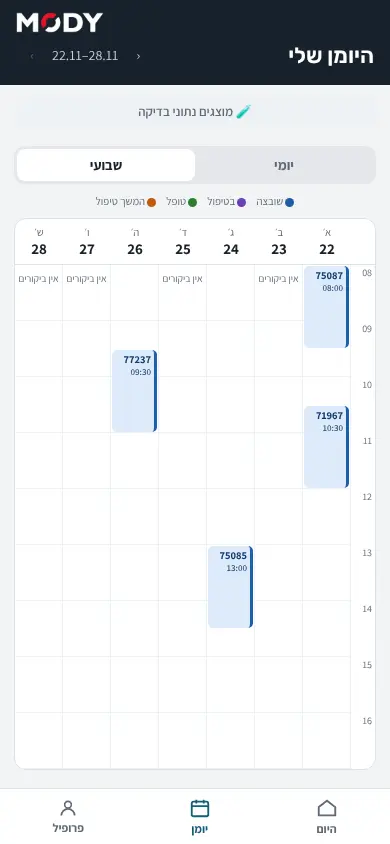
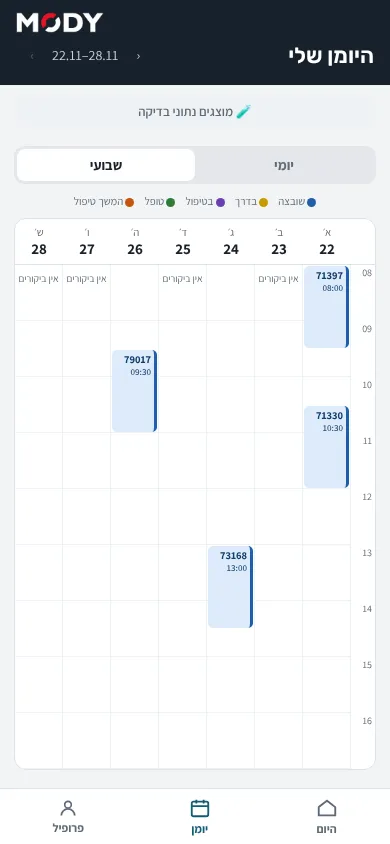
Technician calendar: "בדרך" in the legend (#54)
Owner approval "מאשר #54 2579455" (2026-11-19), advisor-checked.

diff --git a/components/tech/calendar/TechCalLegend.tsx b/components/tech/calendar/TechCalLegend.tsx
@@ -4,12 +4,13 @@ import type { VisitStatus } from "@/features/visits/data/types";
 // The colour key of the technician calendar (owner review of #45, fix c): one fixed line under the
 // day strip (daily) or the view switch (weekly). In the weekly view at 390 it is the only key (the
 // blocks have no room for a status chip; design-rules.md "Status is never colour alone"). Colours
-// come from VISIT_STATUSES only (fix d). "בדרך" is not in the line (owner question, #45).
-export const LEGEND_STATUSES = ["new", "work", "done", "cont"] as const satisfies readonly VisitStatus[];
+// come from VISIT_STATUSES only (fix d). Every status that can appear on a block is in the line, in
+// VISIT_STATUSES order (owner 19.11, D80: "בדרך" added). "cancel" never appears on a block.
+export const LEGEND_STATUSES = ["new", "go", "work", "done", "cont"] as const satisfies readonly VisitStatus[];
 
 export function TechCalLegend() {
   return (
-    <div role="note" aria-label="מקרא צבעים" style={{ display: "flex", gap: 10, fontSize: 11, justifyContent: "center", flexWrap: "nowrap", whiteSpace: "nowrap", flex: "none", color: "var(--muted)" }}>
+    <div role="note" aria-label="מקרא צבעים" style={{ display: "flex", gap: 10, fontSize: 11, justifyContent: "center", flexWrap: "wrap", rowGap: 2, whiteSpace: "nowrap", flex: "none", color: "var(--muted)" }}>
       {LEGEND_STATUSES.map((k) => (
         <span key={k}>
           <span className="dot" aria-hidden="true" style={{ background: VISIT_STATUSES[k].c }} /> {VISIT_STATUSES[k].label}

diff --git a/tests/auth/tech-calendar.spec.ts b/tests/auth/tech-calendar.spec.ts
@@ -99,7 +99,7 @@ test.describe.serial("technician calendar on real data (local stack)", () => {
     await expect(day).toContainText(mine.noon.req);
     await expect(day).toContainText("שובצה");
     await expect(day).toContainText("07:00");
-    await expect(page.getByRole("note", { name: "מקרא צבעים" })).toHaveText(/שובצה.*בטיפול.*טופל.*המשך טיפול/);
+    await expect(page.getByRole("note", { name: "מקרא צבעים" })).toHaveText(/שובצה.*בדרך.*בטיפול.*טופל.*המשך טיפול/);
     await expect(page.getByText("מוצגים נתוני בדיקה")).toBeVisible();
     // "today" is the server's: the URL's today= is ignored (the strip starts at today).
     await expect(page.getByRole("group", { name: "הימים הקרובים" }).getByRole("link").first()).toHaveAttribute("href", `/tech/calendar?view=day&date=${today}`);
